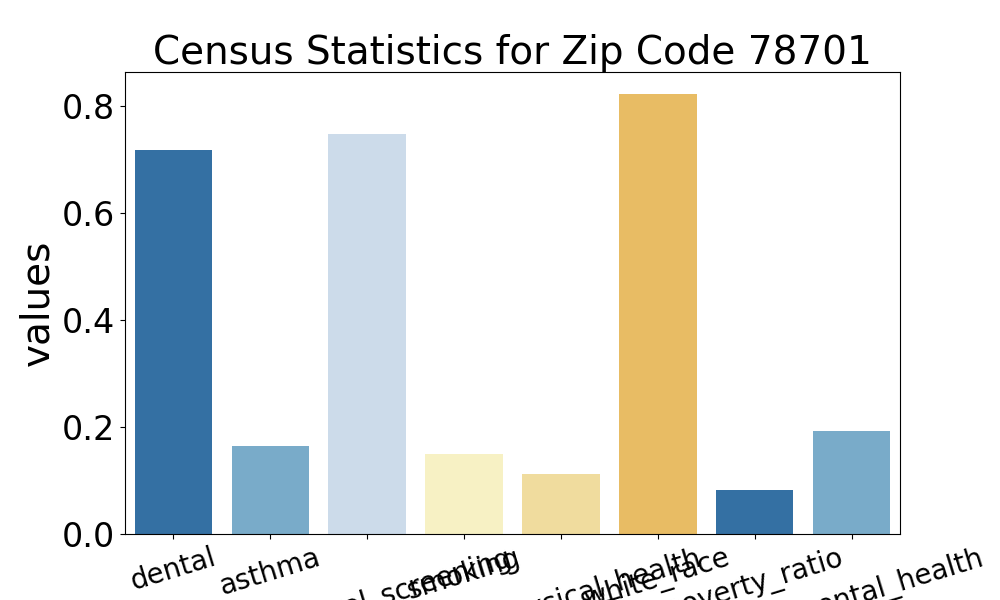
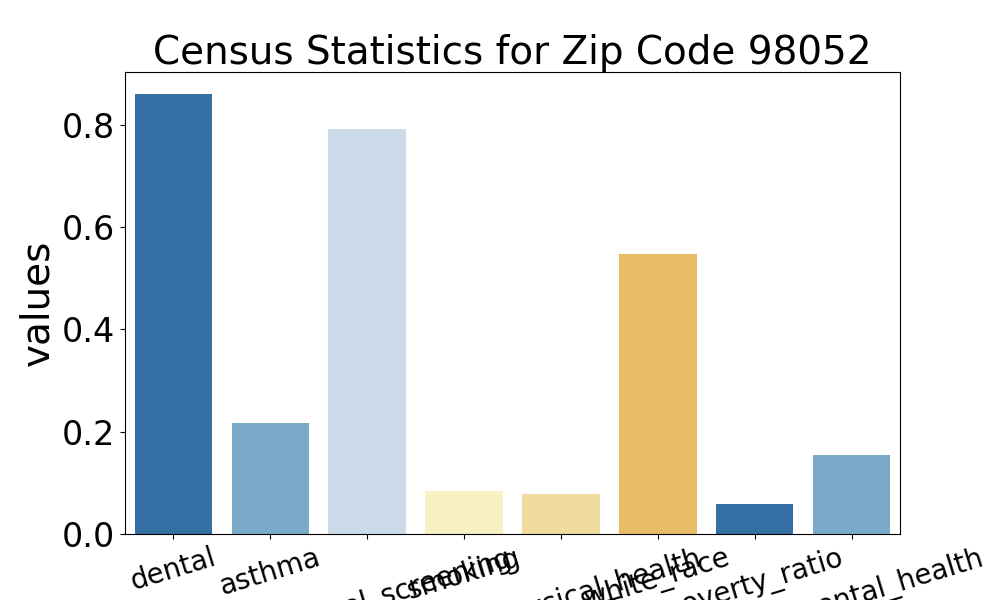
add inference graphs to app

diff --git a/model_inference.py b/model_inference.py
@@ -1,0 +1,120 @@
+import numpy as np
+import pandas as pd
+import seaborn as sns
+from matplotlib import pyplot as plt
+import streamlit as st
+
+from regression import get_model
+
+
+cmap = sns.color_palette("Blues_r", n_colors=3) + sns.color_palette("YlOrBr", n_colors=7)[:3]
+
+# Inference with model.
+def inference(model, values, inference_df):
+    inf_df = inference_df.copy()
+    # 2, 14, 17, 19, 21, 77
+    ext_values = np.zeros(len(inf_df.columns))
+    for i, idx in enumerate([2, 14, 17, 19, 21, 77]):
+        ext_values[idx] = values[i]
+    inf_df.loc[0] = ext_values
+    return model.predict(inf_df)/1000
+
+
+# Plot zipcode data at certain time.
+def plot_bardata(model, zipcode, time, zip_dict, inference_df):
+    data = zip_dict[zipcode]
+    categories = list(data.keys())
+    categories.remove('zcta')
+    categories.remove('location')
+    values = []
+    for category in categories:
+        values.append(data[category][time])
+    
+    inf_value = inference(model, values, inference_df)
+    values.append(inf_value[0])
+    categories = ['Dental', 'Asthma', 'Cholesterol', 'Smoking', 'Poor Health', 'White Race']
+    categories.append('Pred MHLTH/POV')
+    times = ['Sept. 2023', 'Dec. 2023', 'Mar. 2024', 'Jun. 2024', 'Sept. 2024']
+    new_df = pd.DataFrame({'categories': categories, 'values': values})
+    plt.figure(figsize=(14, 10))
+    plt.rcParams['axes.labelsize'] = 28
+    plt.rcParams['axes.titlesize'] = 32
+    plt.rcParams['xtick.labelsize'] = 24
+    plt.rcParams['ytick.labelsize'] = 24
+    plt.xticks(rotation=30)
+    plt.title(f'Zip Code {zipcode} Census Statistics on {times[time]}')
+    sns.barplot(x='categories', y='values', data=new_df, palette=cmap)
+    plt.xlabel(data['location'])
+    # plt.show()
+    st.pyplot()
+
+# Plot timeseries data for a certain zipcode.
+def plot_timeseries(model, zipcode, zip_dict, inference_df):
+    data = zip_dict[zipcode]
+    categories = list(data.keys())
+    categories.remove('zcta')
+    categories.remove('location')
+    plt.figure(figsize=(14, 10))
+    plt.title(f'Zip Code {zipcode} Census Statistics Over Time')
+    plt.xlabel('Time')
+    plt.rcParams['axes.labelsize'] = 28
+    plt.rcParams['axes.titlesize'] = 32
+    plt.rcParams['xtick.labelsize'] = 24
+    plt.rcParams['ytick.labelsize'] = 24
+    plt.xticks(rotation=30)
+    # plt.ylabel(category)
+    values = []
+    for category in categories:
+        values.append(data[category])
+        plt.plot(data[category], marker='o')
+    
+    inf_values = []
+    for i in range(len(values[0])):
+        temp_values = []
+        for y in range(len(values)):
+            temp_values.append(values[y][i])
+        inf_values.append(inference(model, temp_values, inference_df))
+
+    plt.plot(inf_values, linestyle='--', marker='x')
+    categories.append('Pred MHLTH/POV')
+    plt.legend(categories)
+    plt.xticks(np.arange(5), ['Sept. 2023', 'Dec. 2023', 'Mar. 2024', 'Jun. 2024', 'Sept. 2024'])
+    # plt.show()
+    st.pyplot()
+
+
+# Create a dictionary of zipcodes and their data.
+def get_zip_dict():
+    # Load timeseries data.
+    df = pd.read_csv('clean_data/example_timeseries.csv')
+    print(df)
+    zipcodes = df['zcta'].unique()
+    zip_dict = {}
+    for zipcode in zipcodes:
+        df_zipcode = df[df['zcta'] == zipcode]
+        dental = df_zipcode['Dental'].tolist()
+        asthma = df_zipcode['Asthma'].tolist()
+        cholesterol = df_zipcode['Cholesterol'].tolist()
+        smoking = df_zipcode['Smoking'].tolist()
+        poor_health = df_zipcode['Poor Health'].tolist()
+        white_race = df_zipcode['White Race'].tolist()
+        zip_dict[zipcode] = {
+            'zcta': zipcode,
+            'location': df_zipcode['Location'].tolist()[0],
+            'dental': dental,
+            'asthma': asthma,
+            'cholesterol': cholesterol,
+            'smoking': smoking,
+            'poor_health': poor_health,
+            'white_race': white_race
+        }
+    return zip_dict
+
+if __name__ == '__main__':
+    inference_df = pd.read_csv('clean_data/master.csv')
+    inference_df = pd.DataFrame(columns=inference_df.columns)
+    inference_df.drop(['zcta', 'mhlth_pov_index', 'mhlth_crudeprev', 'poverty_ratio', 'teethlost_crudeprev', 'depression_crudeprev'], axis=1, inplace=True)
+    zip_dict = get_zip_dict()
+    model = get_model()[0]
+    # plot_bardata(model, 32304, 2, zip_dict, inference_df)
+    plot_timeseries(model, 10456, zip_dict, inference_df)

diff --git a/streamlit_app.py b/streamlit_app.py
@@ -5,6 +5,8 @@ import seaborn as sns
 import numpy as np
 import pandas as pd
 from graphing import minmax_normalize
+from model_inference import get_model, inference, plot_bardata, plot_timeseries, get_zip_dict
+
 
 def center_app():
     st.markdown(
@@ -79,6 +81,22 @@ add_blank_space(25)
 st.image("images/Census Graph.png")
 st.subheader("Provide correlations using lasso regression")
 add_blank_space(50)
+
+model = get_model()[0]
+zip_dict = get_zip_dict()
+# Get ready for inference columns.
+inference_df = pd.read_csv('clean_data/master.csv')
+inference_df = pd.DataFrame(columns=inference_df.columns)
+inference_df.drop(['zcta', 'mhlth_pov_index', 'mhlth_crudeprev', 'poverty_ratio', 'teethlost_crudeprev', 'depression_crudeprev'], axis=1, inplace=True)
+
+zip_locations = [zip_dict[zip_code]["location"] for zip_code in zip_dict.keys()]
+zcode = st.selectbox("Select a zip code", zip_dict.keys(), format_func=lambda x: f'{zip_dict[x]["location"]} - {x}')
+if zcode:
+    disp_timestep = ['Sept. 2023', 'Dec. 2023', 'Mar. 2024', 'Jun 2024', 'Sept 2024']
+    timestep = st.selectbox("Select a timestep", np.arange(5), format_func=lambda x: disp_timestep[x])
+    plot_bardata(model, zcode, timestep, zip_dict, inference_df)
+    plot_timeseries(model, zcode, zip_dict, inference_df)
+
 
 st.divider()
 st.subheader("Enter your zip code to see your regions results!")
